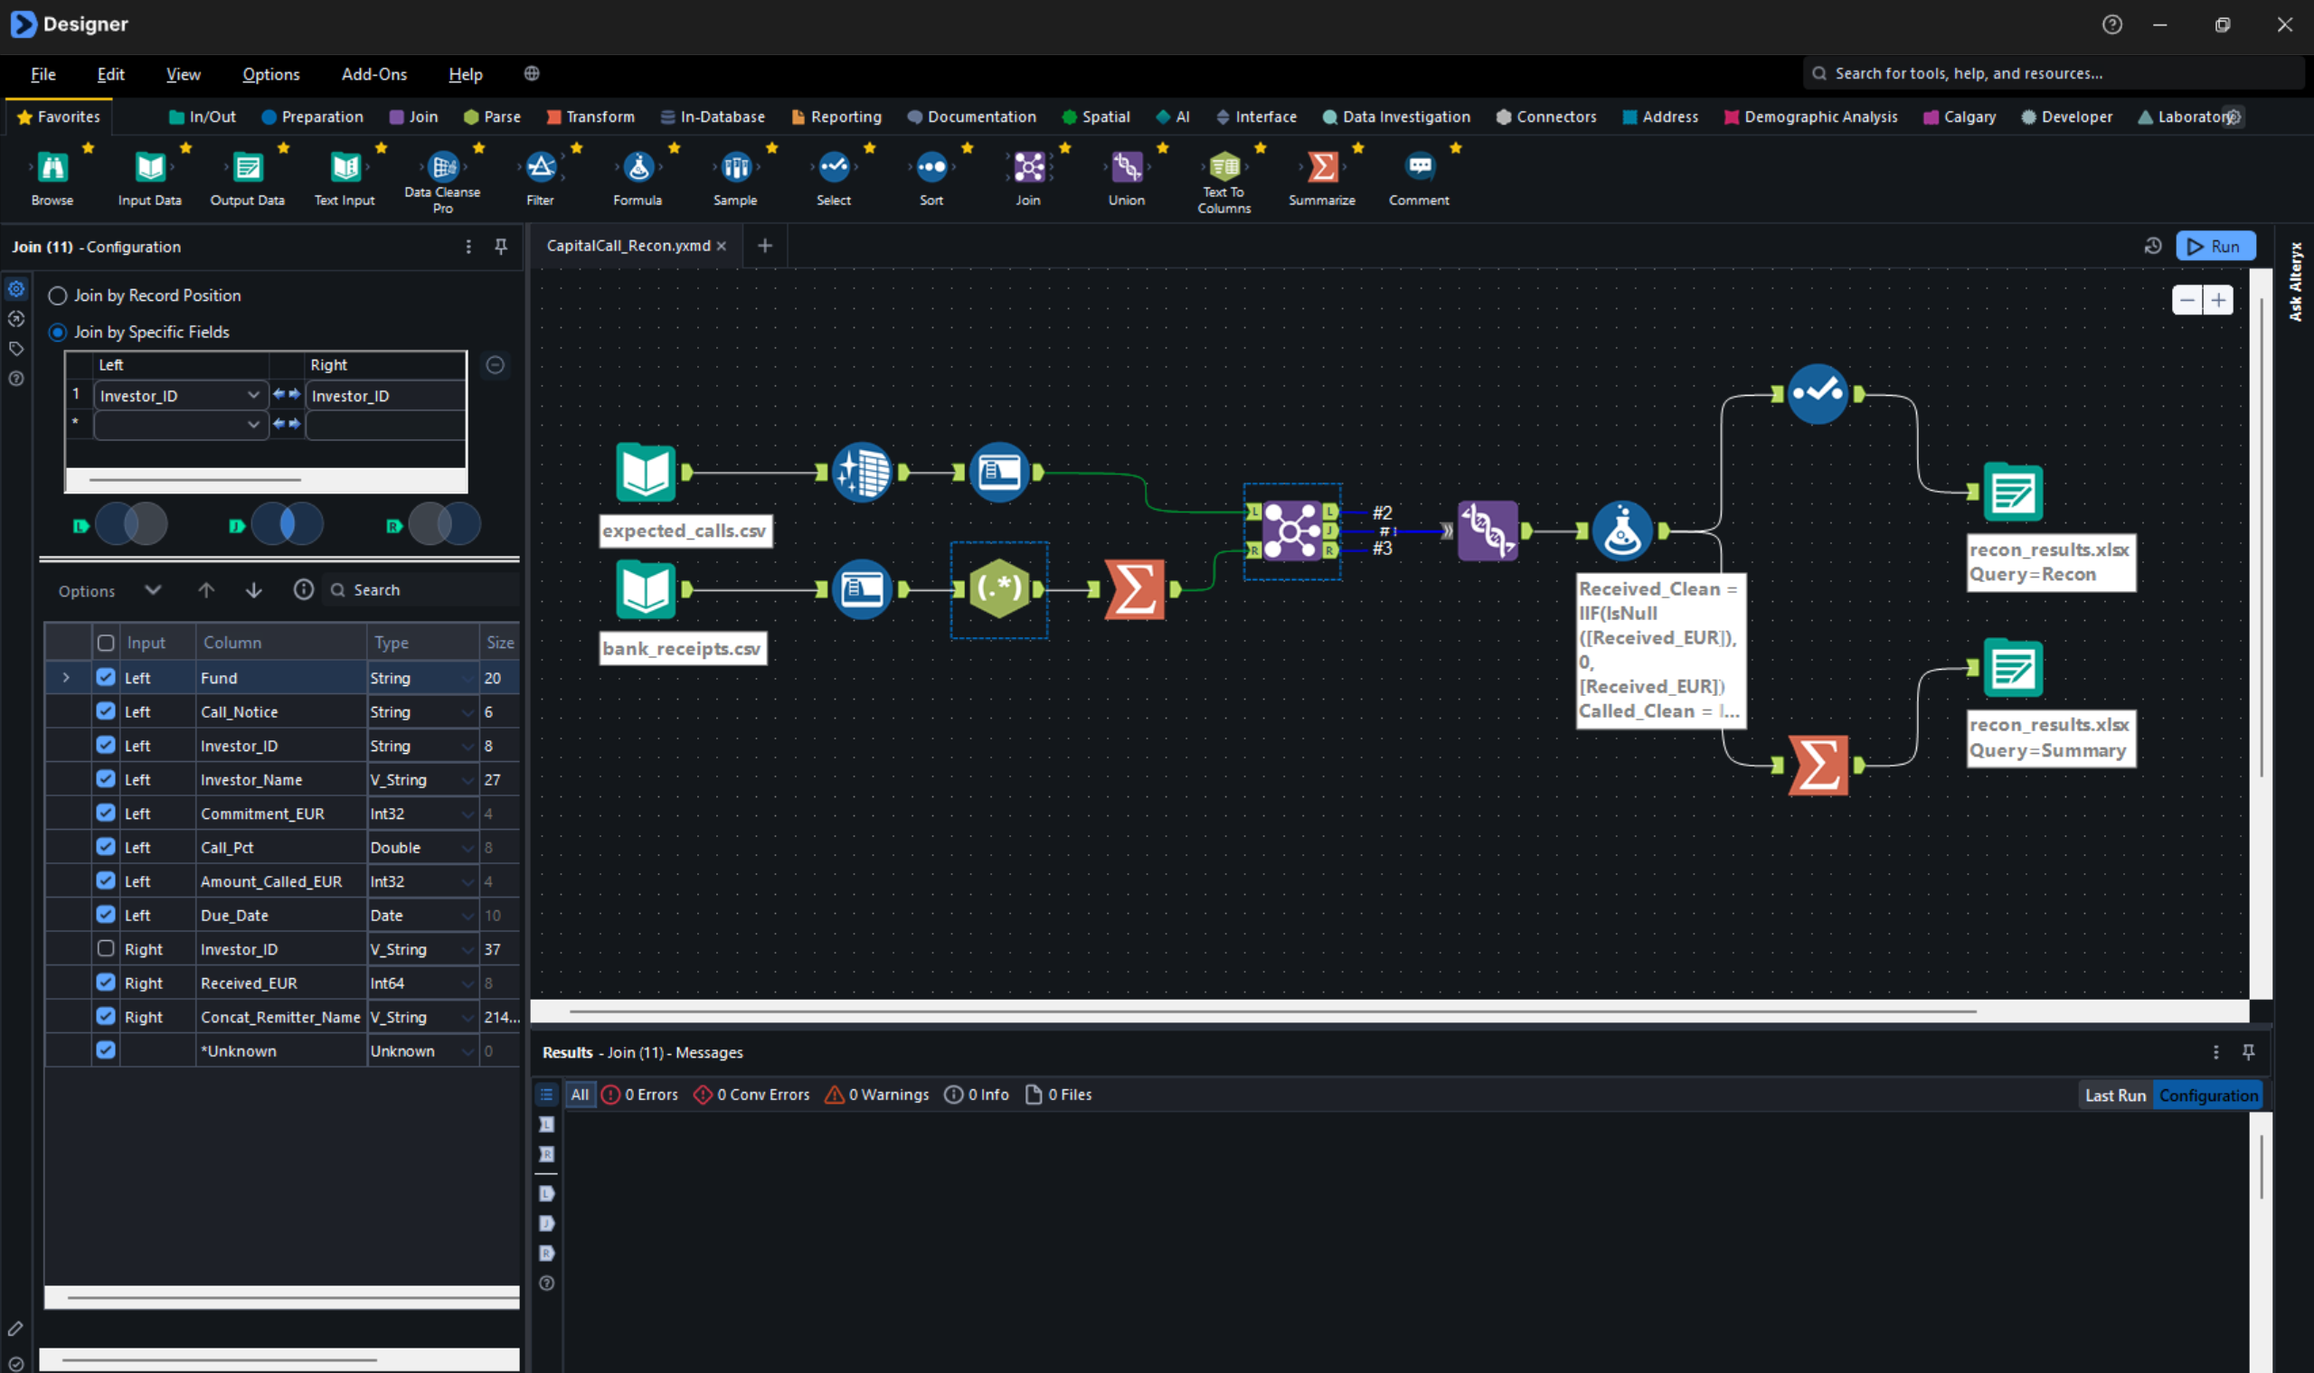
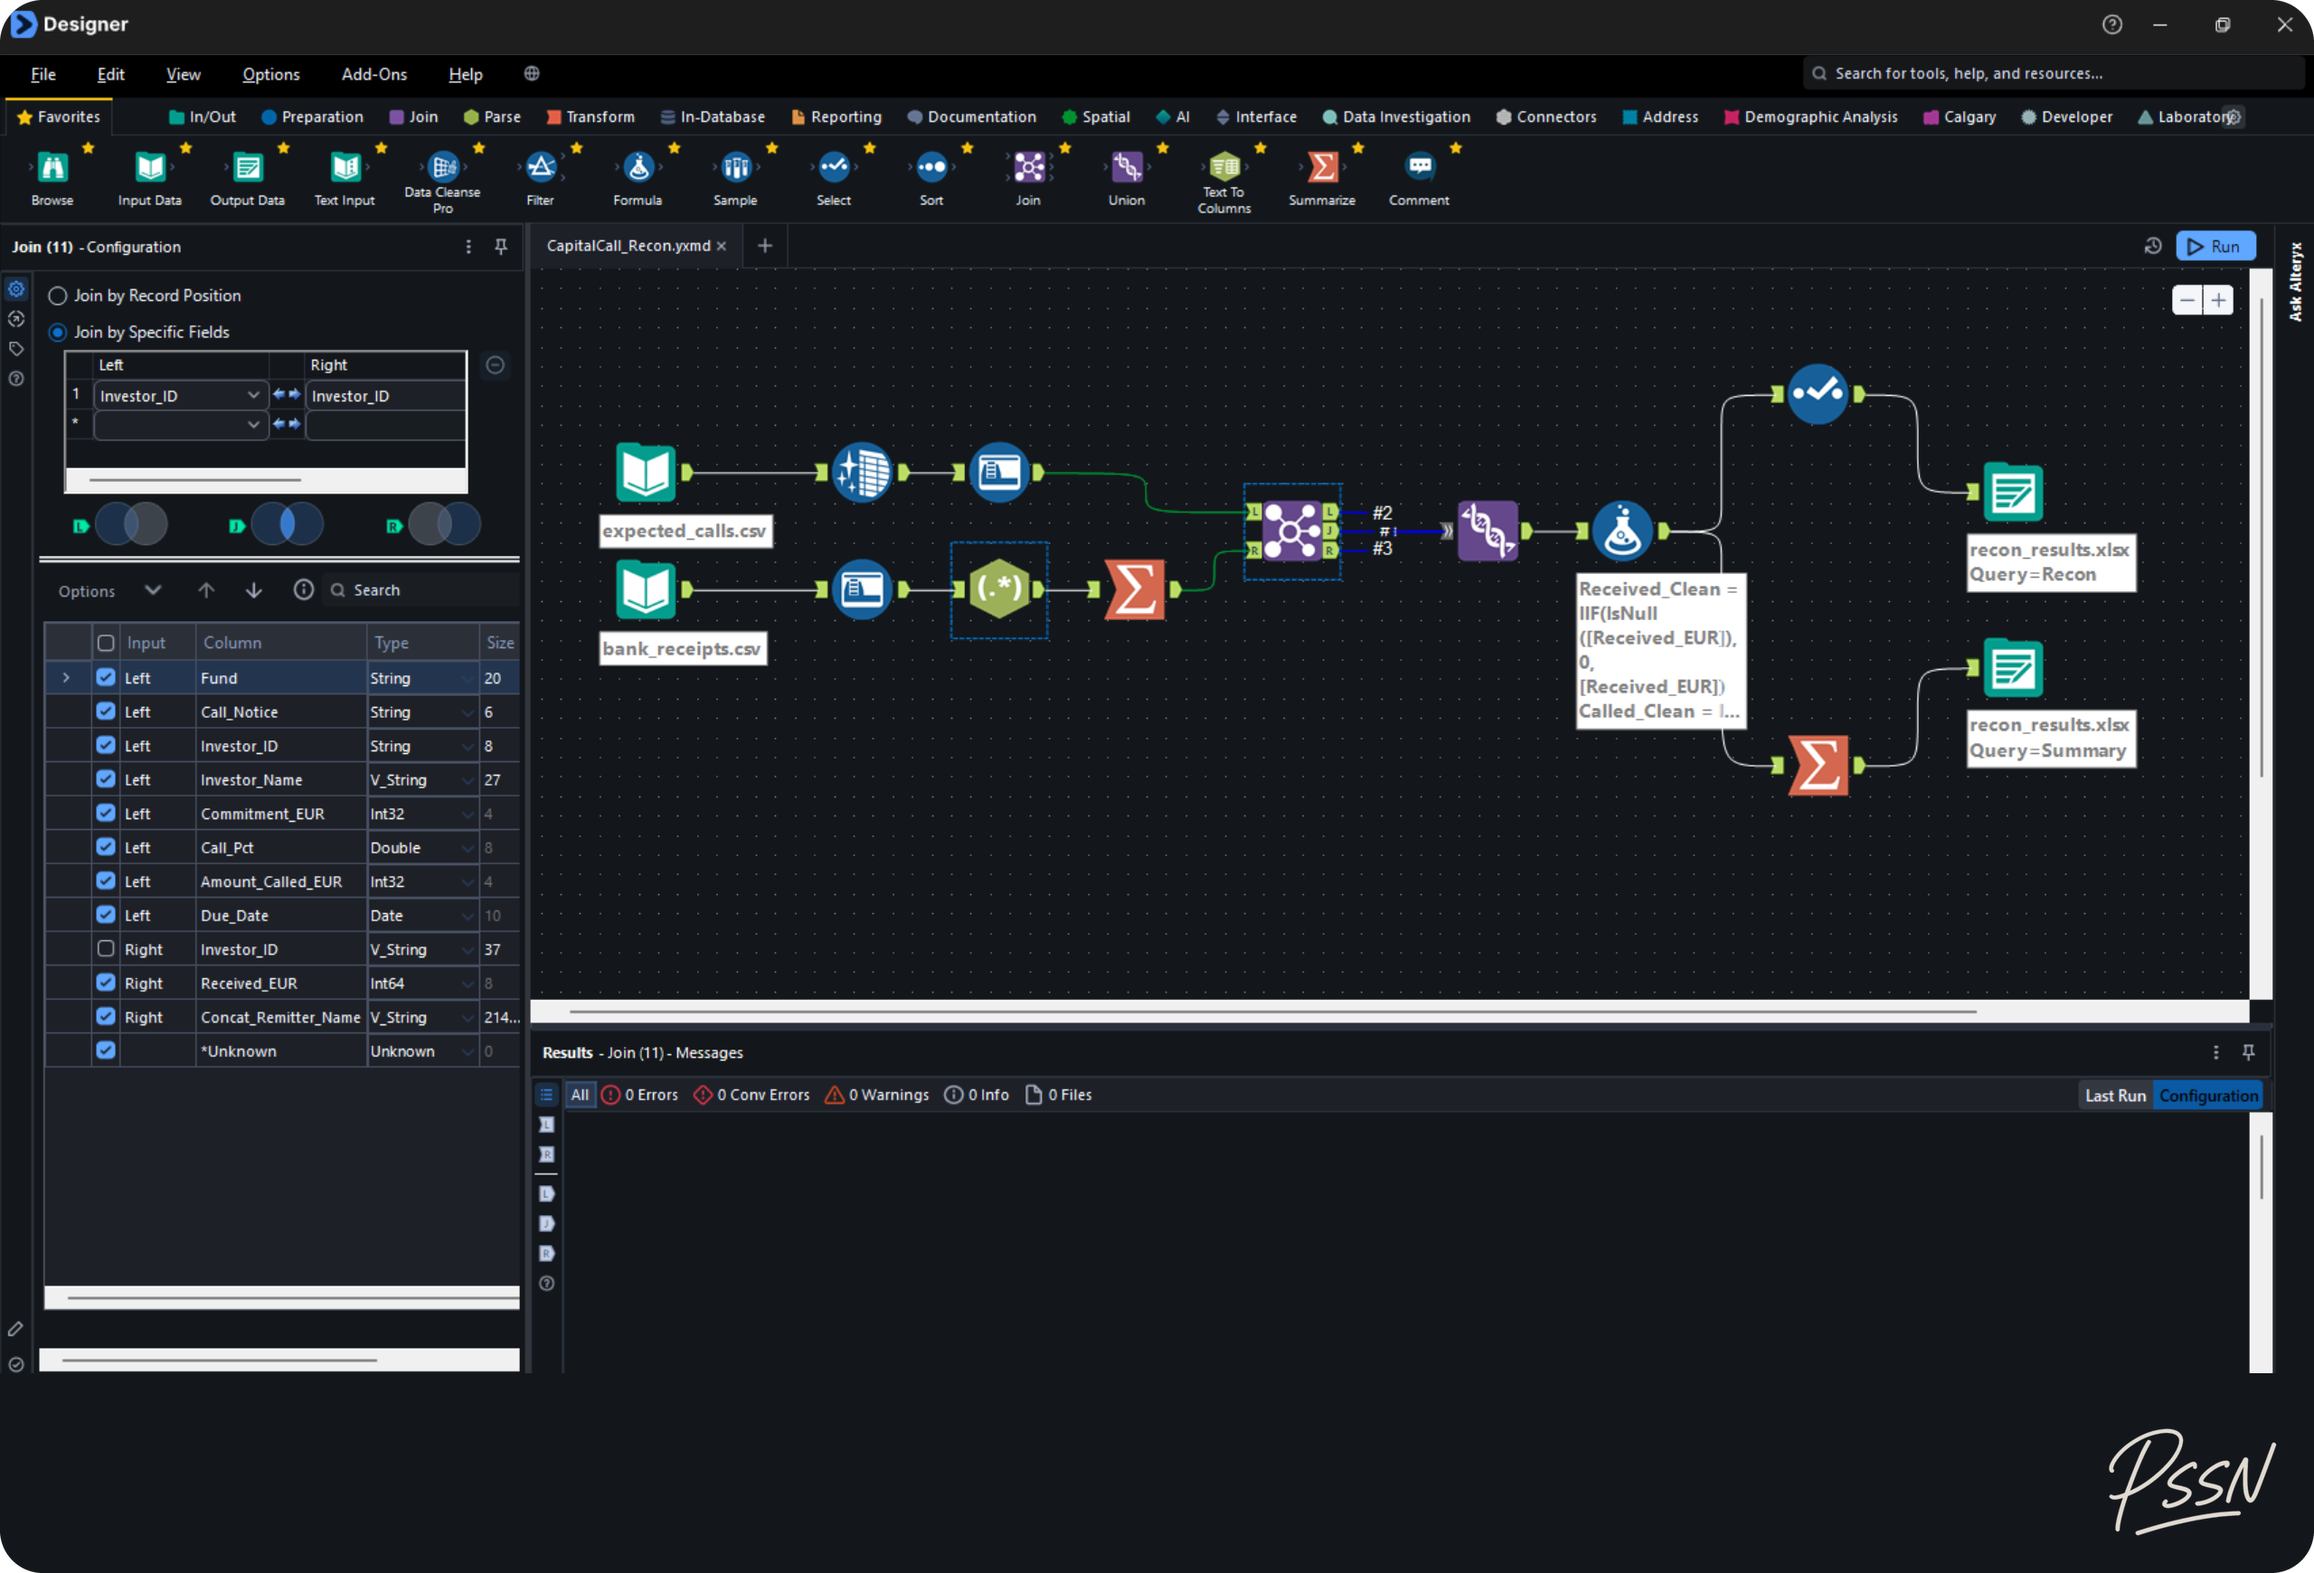
Add cover image, badges, signed screenshots and MIT licence

Changed region(s): [[0.0, 0.0, 1.0, 1.0], [0.9261, 0.1238, 1.0, 0.2475], [0.8953, 0.8664, 1.0, 1.0]]

diff --git a/README.md b/README.md
@@ -1,5 +1,13 @@
 # Capital Call Cash Reconciliation in Alteryx
 
+![Project Overview](images/0_project_overview.png)
+
+<p align="center">
+  <img src="https://img.shields.io/badge/Built_with-Alteryx_Designer-0078C0?style=flat-square" alt="Built with: Alteryx Designer"/>
+  <img src="https://img.shields.io/badge/Domain-Private_fund_administration-6E6E6E?style=flat-square" alt="Domain: Private fund administration"/>
+  <img src="https://img.shields.io/badge/Data-Fictional_capital_call-c9440c?style=flat-square" alt="Data: Fictional capital call"/>
+</p>
+
 An Alteryx Designer workflow that reconciles a private fund's **capital call** against the **bank receipts**. It classifies every investor as matched, short-paid, outstanding or unidentified, and ties the totals back to source so nothing is lost or double-counted.
 
 Built as a hands-on learning project in private fund administration. All data is fictional.
@@ -57,6 +65,10 @@ flowchart LR
 | 6 | Union + Formula | Recombines all three outputs and assigns each row a status, applying a €25 tolerance for bank charges and counting days overdue from the run date |
 | 7 | Select + Output | Writes a clean detail sheet and a summary sheet by status for the reviewer |
 
+The Join on `Investor_ID` is where the reconciliation happens. Its three outputs separate paid investors (J), called investors with no cash (L) and cash with no matching investor (R):
+
+![Join configuration](images/join_configuration.png)
+
 ## Seeded exceptions
 
 Five problems were planted in the test data, plus one split payment to test aggregation. The workflow handles all six correctly.
@@ -103,7 +115,8 @@ Five problems were planted in the test data, plus one split payment to test aggr
 │   └── bank_receipts.csv     bank statement export
 ├── output/
 │   └── recon_results.xlsx    Recon (detail) and Summary sheets
-└── images/                   screenshots
+├── images/                   cover image and screenshots
+└── LICENSE
 ```
 
 ## Next steps
@@ -112,6 +125,9 @@ Five problems were planted in the test data, plus one split payment to test aggr
 - **Align the Union inputs:** the Join's three outputs have different columns, which raises informational warnings. A Select on each branch would remove them.
 - **Parameterise:** make the tolerance, the as-of date and the call notice user inputs instead of fixed values.
 - **Investor-level detail:** show the side-letter terms and each investor's unfunded commitment after the call.
+
+## Tech
+Alteryx Designer (`.yxmd`), RegEx parsing, Excel output
 
 ## Disclaimer
 
